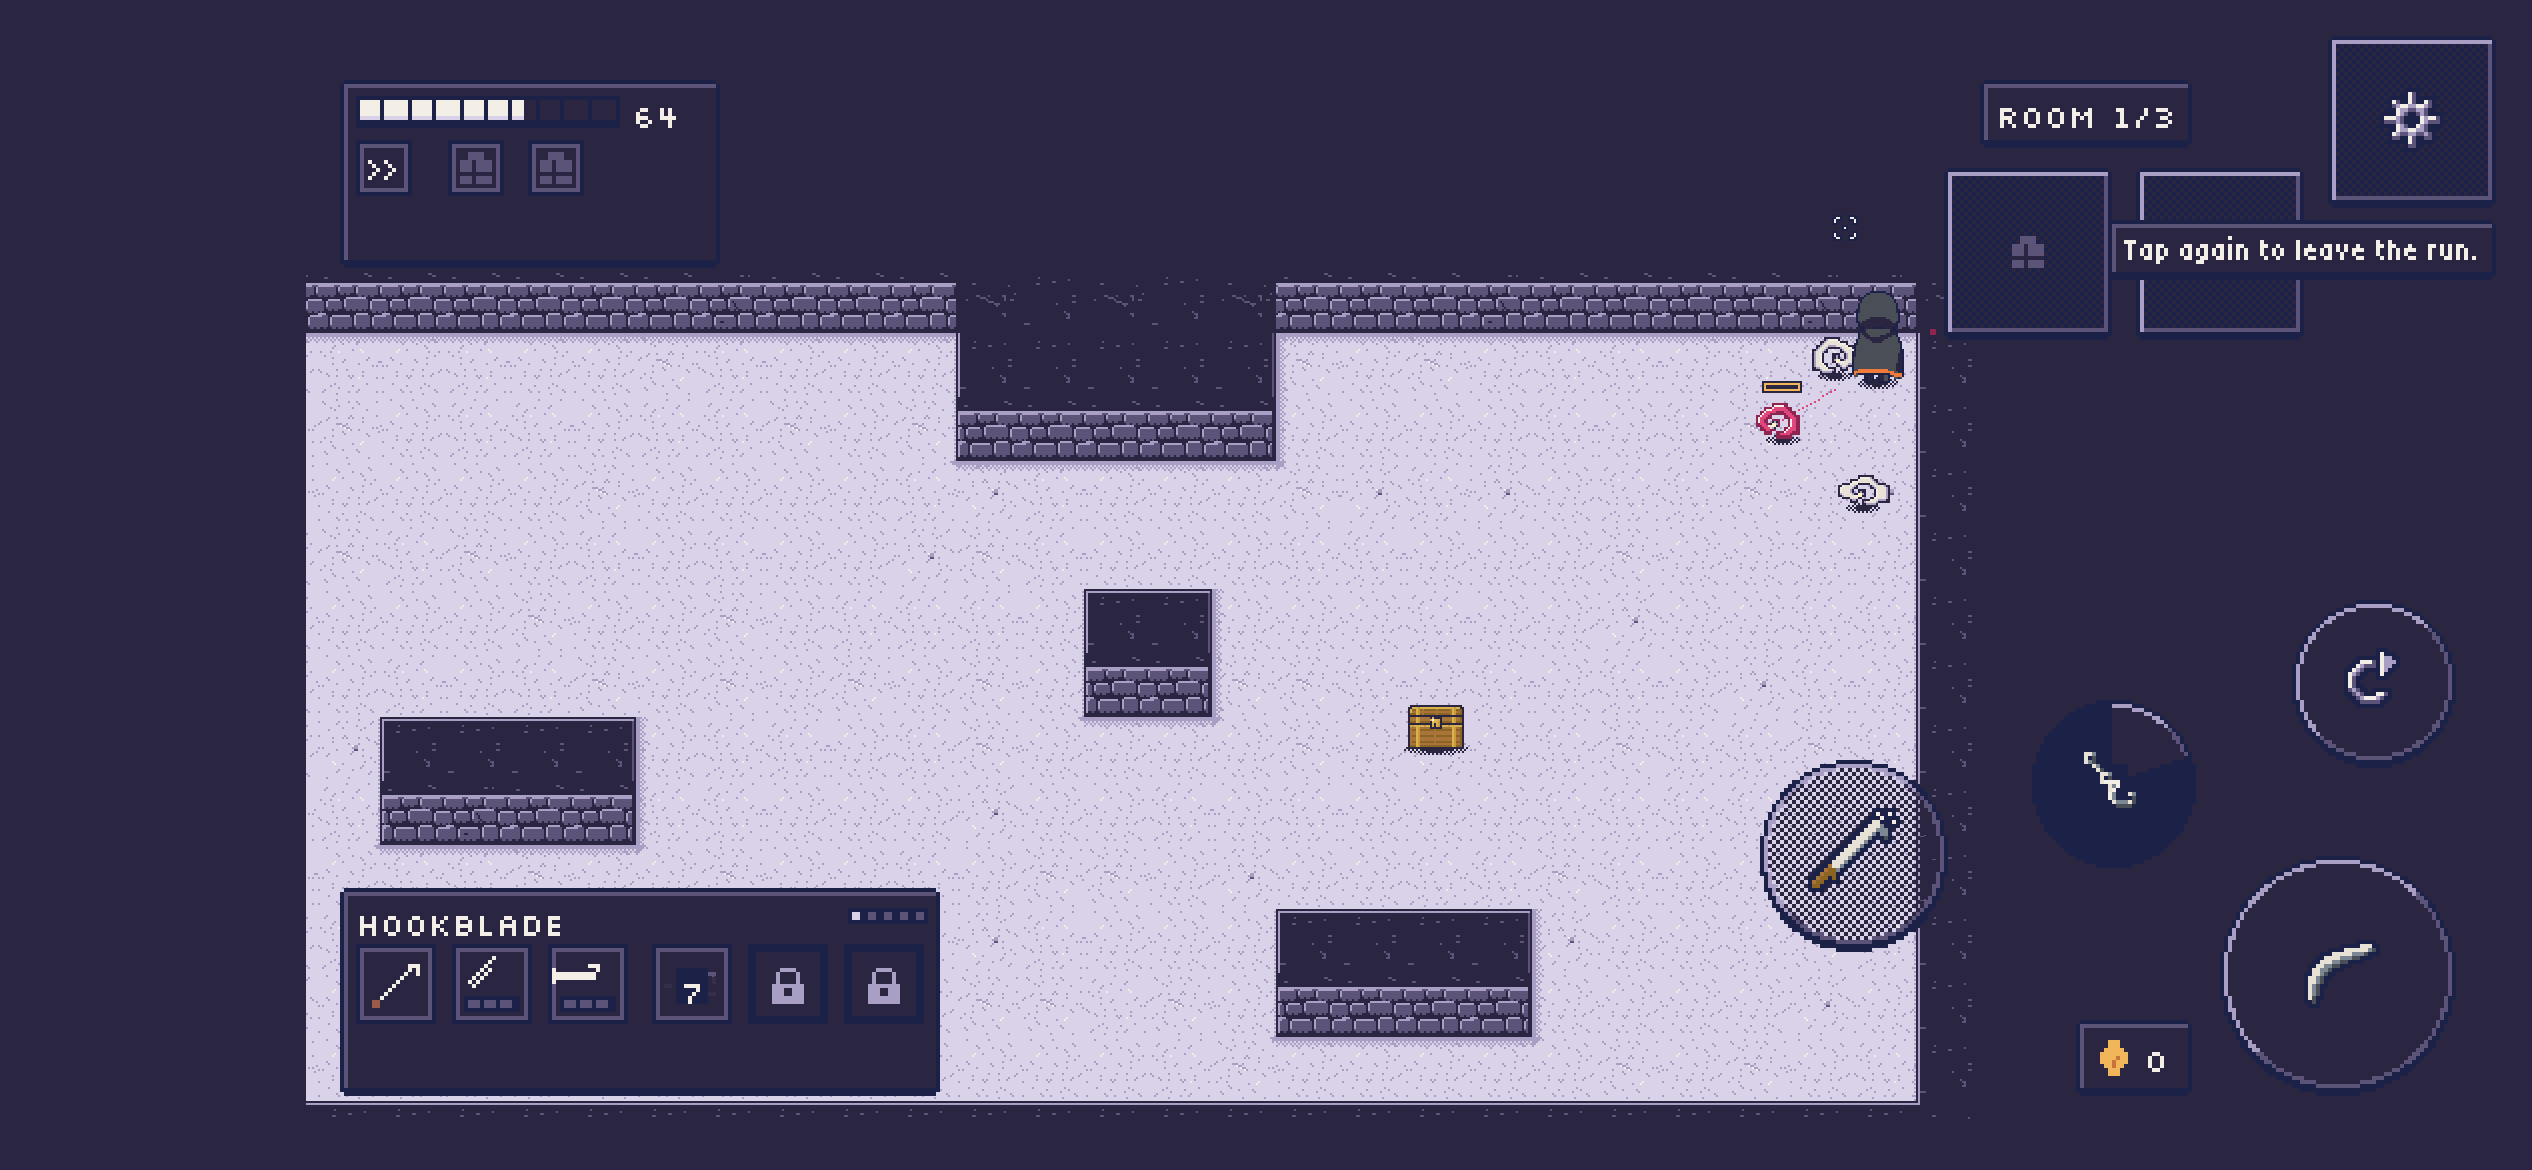
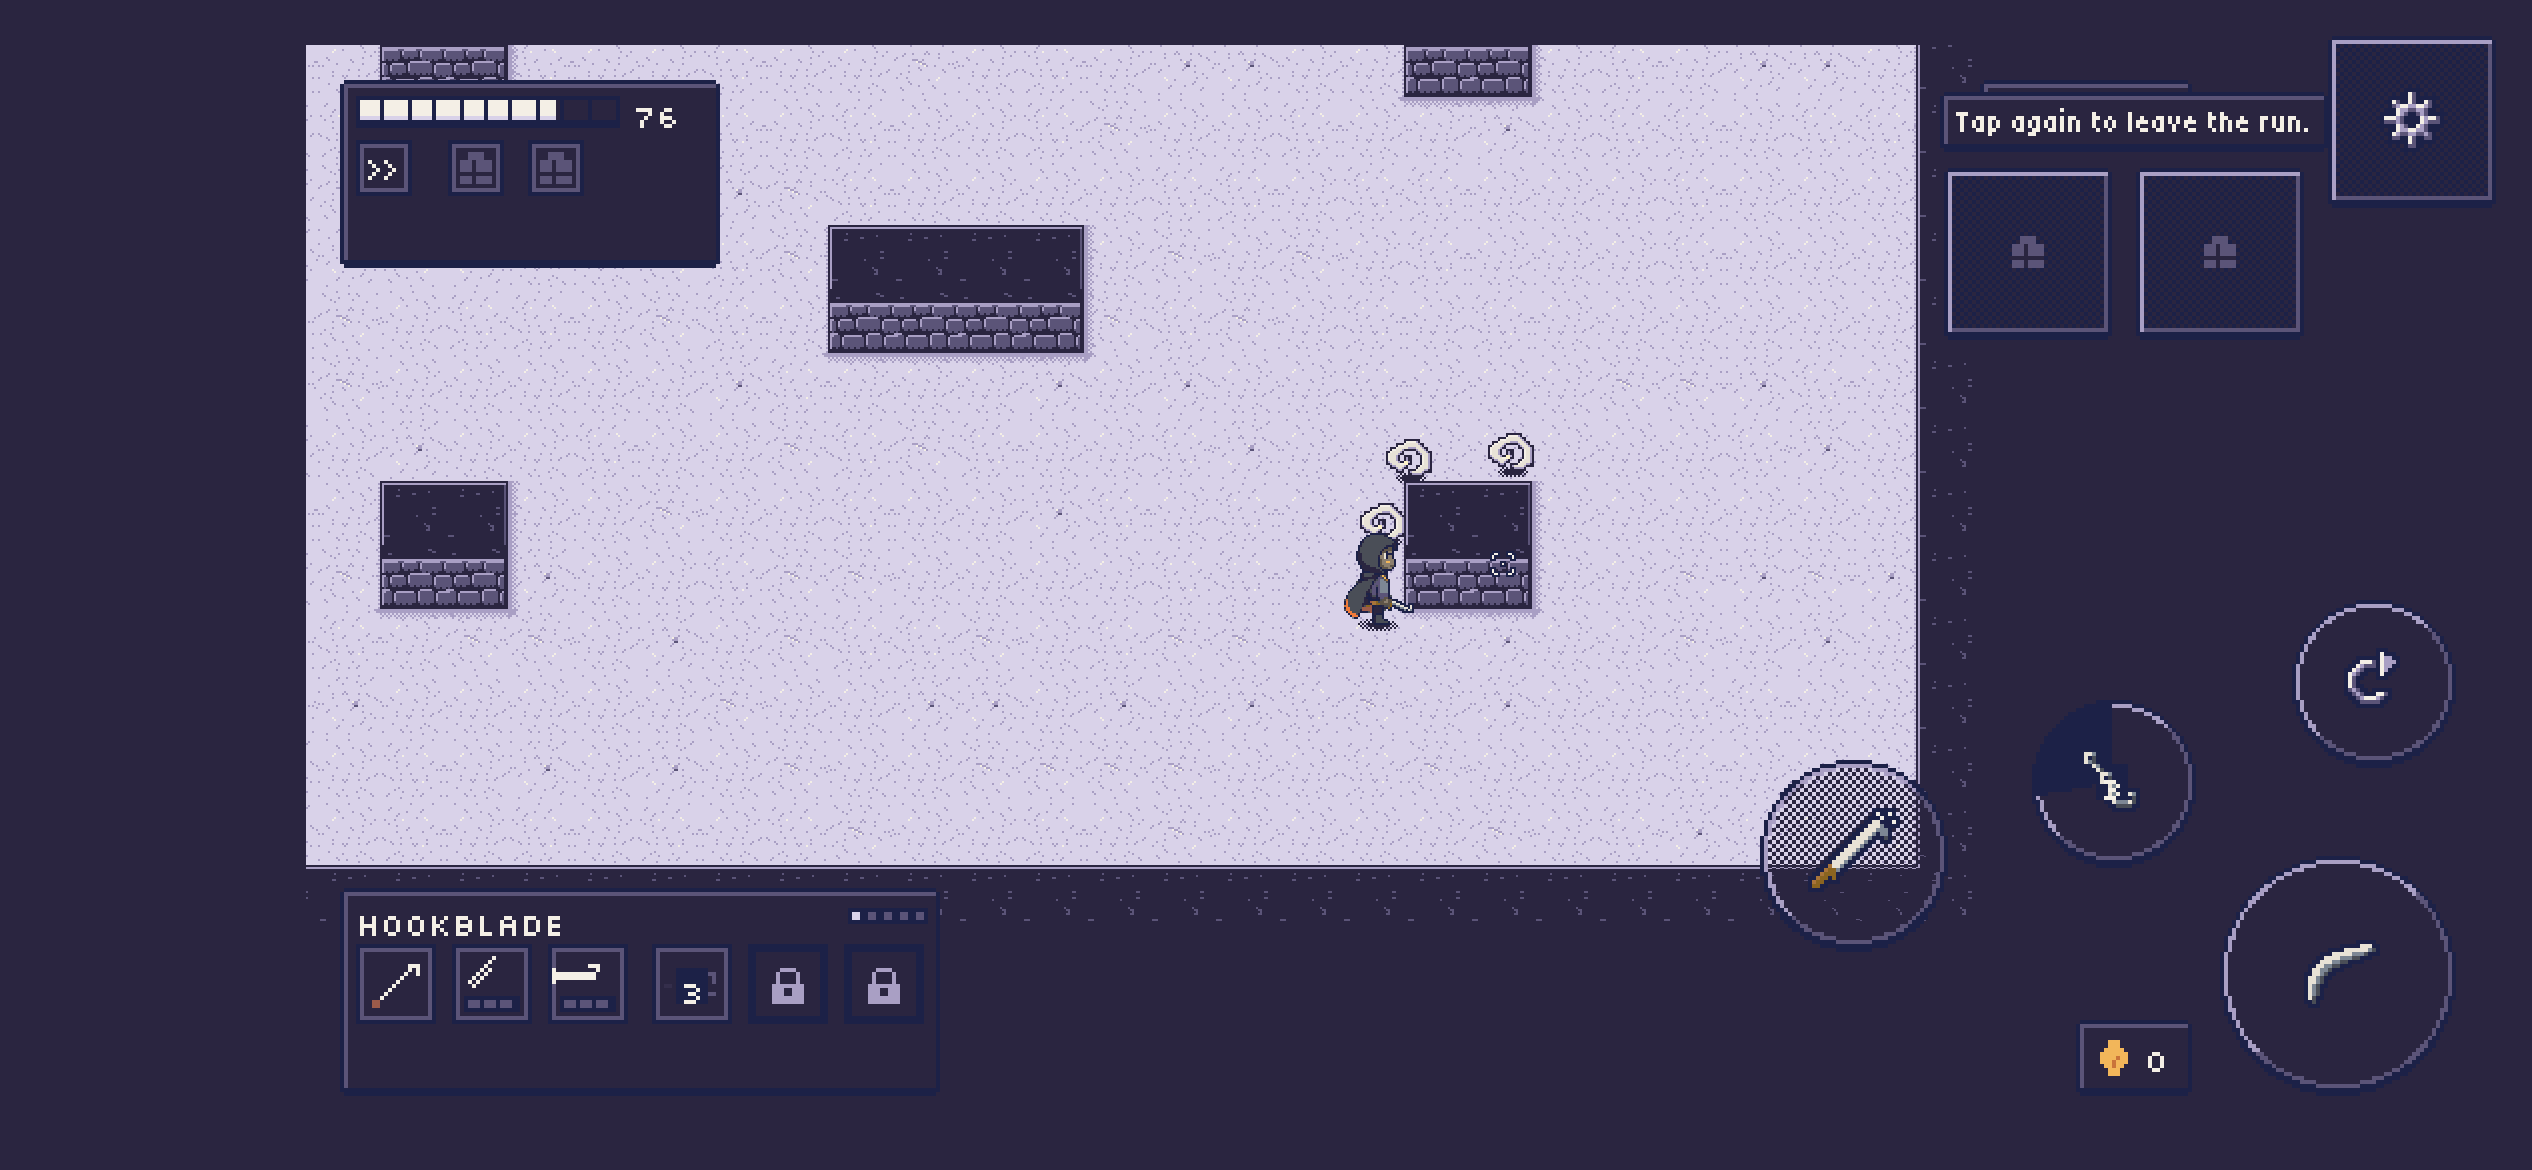
Touch: the tap-again line goes on the gear's row, against it (ART on #136)
A transient line never covers something to tap: it sits on the gear's own
row, its right edge against the gear, covering the ROOM readout for its 2 s;
centred on that row when it doesn't fit (notePlace, tested on the four
screens). Shot 22 retaken.

Claude-Session: https://claude.ai/code/session_01AQ7MDAxUWeFxm5aoEn2ocb

diff --git a/apps/client/src/game/touchLayout.test.ts b/apps/client/src/game/touchLayout.test.ts
@@ -1,4 +1,4 @@
-import { defaultTuning, measureText, silkscreenFont } from '@iot/shared';
+import { defaultTuning, measureText, silkscreenFont, tiny5Font } from '@iot/shared';
 import { MOVE_DIRS, MOVE_MAG_MAX } from '@iot/sim';
 import { describe, expect, it } from 'vitest';
 import { hudRects, toastTextWidth } from './holdingView.js';
@@ -8,6 +8,7 @@ import {
   controlAt,
   controlPx,
   isTap,
+  notePlace,
   stickKnob,
   stickVector,
   TOUCH,
@@ -18,6 +19,7 @@ import {
   type TouchMode,
 } from './touchLayout.js';
 import { quantizeMove } from './quantize.js';
+import { LEAVE_RUN_AGAIN } from './tapAgain.js';
 import { deviceSize, fitUi, fitWorldView, viewInUi, type Rect } from './view.js';
 
 /** The four test screens (M2 Task 10): CSS size and device pixel ratio. */
@@ -151,6 +153,23 @@ describe('the sizes ART draws for (UI px on the four test screens)', () => {
       ['small phone 667×375 @ 2', 80, 64, 56, 56, 56, 48],
     ]);
     for (const row of table) expect(row[1]).toBeGreaterThan(row[2] as number);
+  });
+});
+
+describe.each(SCREENS)("the gear's tap-again line on the %s (ART on #136)", (_name, w, h, dpr) => {
+  it("sits on the gear's row against it, or centred on that row, and never covers a control", () => {
+    const { layout } = layoutFor('run', w, h, dpr, ['ability1']);
+    const gear = layout.controls.find((c) => c.id === 'gear');
+    if (!gear) throw new Error('no gear');
+    const nw = measureText(tiny5Font, LEAVE_RUN_AGAIN) + 8;
+    const at = notePlace(layout, 'gear', nw, 14);
+    if (!at) throw new Error('no place');
+    expect(at.y).toBe(Math.round(gear.cy - 7));
+    expect(at.x >= 0 && at.x + at.w <= layout.screen.w).toBe(true);
+    for (const c of layout.controls) expect(overlaps(c.rect, at), c.id).toBe(false);
+    // Against the gear when it fits there.
+    if (gear.rect.x - nw >= 0 && !layout.controls.some((c) => c !== gear && overlaps(c.rect, { ...at, x: gear.rect.x - nw })))
+      expect(at.x + at.w).toBe(gear.rect.x);
   });
 });
 

diff --git a/apps/client/src/ui/touchControls.ts b/apps/client/src/ui/touchControls.ts
@@ -2,7 +2,7 @@ import type Phaser from 'phaser';
 import { TOUCH_GLYPH_LARGE_CELLS } from '@iot/shared';
 import { deviceStore } from '../game/activeDevice.js';
 import { TouchInput, type TouchRelease } from '../game/touchInput.js';
-import { controlAt, TOUCH, touchLayout, touchScreen, type AbilityControl, type TouchControl, type TouchControlId, type TouchLayout, type TouchMode } from '../game/touchLayout.js';
+import { controlAt, notePlace, TOUCH, touchLayout, touchScreen, type AbilityControl, type TouchControl, type TouchControlId, type TouchLayout, type TouchMode } from '../game/touchLayout.js';
 import type { Rect } from '../game/view.js';
 import { Palette } from '../palette.js';
 import { DEPTH } from '../render/depth.js';
@@ -262,7 +262,7 @@ export class TouchControls {
     this.note = text === null ? null : { id, text };
   }
 
-  /** The note on a plain panel under its control, right-aligned with it (clear of the HUD's top-right panels), kept on the screen. */
+  /** The note on a plain panel, on its control's row against it (`notePlace`, ART on #136); it leaves in one frame. */
   private drawNote(): void {
     const n = this.note;
     const c = n && this.input.layout.controls.find((x) => x.id === n.id);
@@ -273,12 +273,10 @@ export class TouchControls {
     }
     const t = this.noteText;
     if (t.text !== n.text) t.setText(n.text);
-    const w = Math.round(t.width) + 8;
-    const h = 14;
-    const x = Math.max(0, c.rect.x + c.rect.w - w);
-    const y = Math.min(this.input.layout.screen.h - h, c.rect.y + c.rect.h + 4);
-    panel(this.noteG, x, y, w, h, { plain: true });
-    place(t.setVisible(true), x + 4, y + 3);
+    const at = notePlace(this.input.layout, c.id, Math.round(t.width) + 8, 14);
+    if (!at) return;
+    panel(this.noteG, at.x, at.y, at.w, at.h, { plain: true });
+    place(t.setVisible(true), at.x + 4, at.y + 3);
   }
 
   private glyph(id: TouchControlId, texture: string, frame: string): Phaser.GameObjects.Image | null {

diff --git a/apps/client/src/game/touchLayout.ts b/apps/client/src/game/touchLayout.ts
@@ -180,6 +180,23 @@ export function touchLayout(screen: TouchScreen, opts: TouchLayoutOptions, data:
   };
 }
 
+/**
+ * Where a control's transient line goes (ART on #136; the gear's "Tap again to leave the run."): on the control's own
+ * row, its right edge against the control's left edge, so it covers a readout (ROOM 1/3) and never something to tap.
+ * When that place would leave the screen or cover another control, it moves to the same row centred on the screen
+ * (the world view is centred), still clear of every control if it can be. `w` × `h` is the line's panel, UI px.
+ */
+export function notePlace(layout: TouchLayout, id: TouchControlId, w: number, h: number): Rect | null {
+  const c = layout.controls.find((x) => x.id === id);
+  if (!c) return null;
+  const y = Math.round(c.cy - h / 2);
+  const clear = (r: Rect): boolean =>
+    r.x >= 0 && r.x + r.w <= layout.screen.w && r.y >= 0 && r.y + r.h <= layout.screen.h && !layout.controls.some((o) => o !== c && overlaps(o.rect, r));
+  const beside = { x: c.rect.x - w, y, w, h };
+  if (clear(beside)) return beside;
+  return { x: Math.round((layout.screen.w - w) / 2), y, w, h };
+}
+
 /** The control a point (UI px) is on, among those showing: a disc by its radius, a square by its rectangle. */
 export function controlAt(layout: TouchLayout, x: number, y: number, showing: (id: TouchControlId) => boolean = () => true): TouchControl | null {
   for (const c of layout.controls) {

diff --git a/docs/design/controls.md b/docs/design/controls.md
@@ -226,7 +226,8 @@ continue" on the results screen (GAME DESIGN's), "tap  <  >  to switch" on the c
 on touch (the inventory, the controls screen: `touchBackButton`, render/menus.ts). The controls screen has a third
 column, Touch, from the table above (the button's glyph, or a word). In a run the gear leaves for the start screen
 (a run has no pause yet), but only on a second tap within `touch.leaveConfirmMs` (2000): the first shows "Tap again
-to leave the run." beside it, and after the window the gear resets (GAME DESIGN, 2026-10-21; `TapAgain`,
+to leave the run." on a plain panel on the gear's own row, its right edge against the gear (covering the ROOM
+readout for those 2 s, never a control; centred on that row when it doesn't fit there; `notePlace`, ART on #136), and after the window the gear resets (GAME DESIGN, 2026-10-21; `TapAgain`,
 `game/tapAgain.ts`). Once deaths cost the pack, leaving a run will count as a death (GAME DESIGN's note; nothing in
 M2).
 
